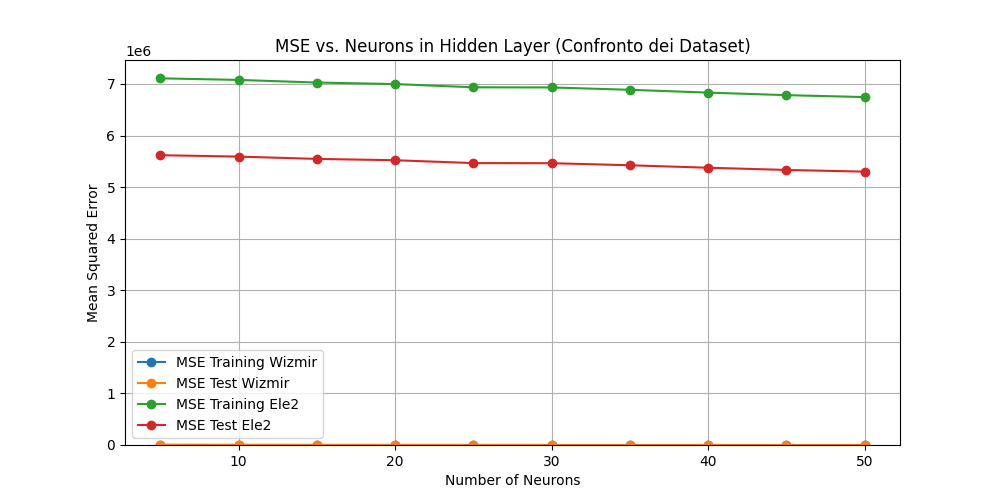
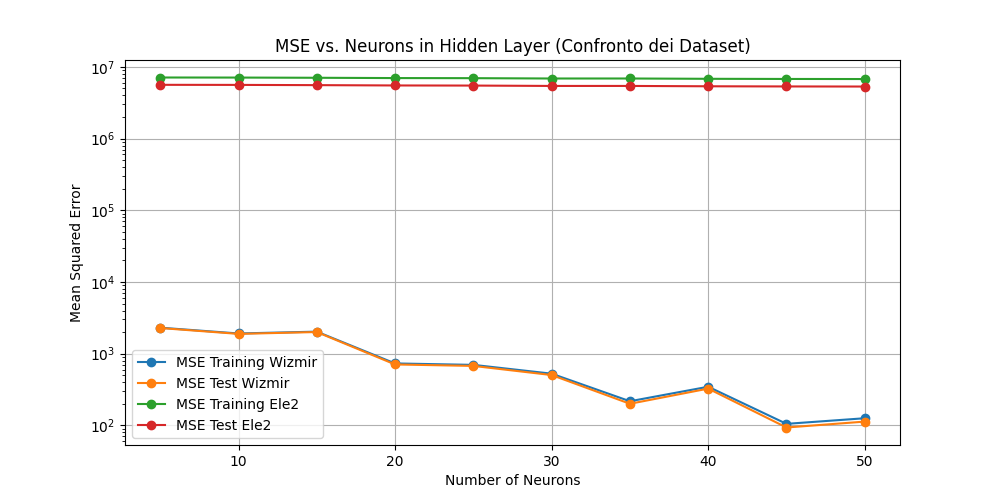
edited README.md and fixed Y axis

diff --git a/main.py b/main.py
@@ -42,10 +42,9 @@ def main():
     plt.title('MSE vs. Neurons in Hidden Layer (Confronto dei Dataset)')
     plt.xlabel('Number of Neurons')
     plt.ylabel('Mean Squared Error')
+    plt.yscale('log')
     plt.legend()
     plt.grid(True)
-
-    plt.ylim(bottom=0)
 
     plots_dir = './plots'
     os.makedirs(plots_dir, exist_ok=True)

diff --git a/README.md b/README.md
@@ -1,38 +1,37 @@
 # Neural Regressor
 
-## Descrizione
-Questo progetto implementa una serie di modelli di rete neurale feedforward per prevedere valori target da dataset di regressione. Attraverso l'uso di TensorFlow e Keras, il progetto esplora l'impatto di diversi numeri di neuroni nello strato nascosto sulla performance del modello, misurata tramite l'errore quadratico medio (MSE).
+## Description
+This project implements a series of feedforward neural network models to predict target values from regression datasets. Using TensorFlow and Keras, the project explores the impact of different numbers of neurons in the hidden layer on the model's performance, measured by the mean squared error (MSE).
 
-## Configurazione
+## Installation
+To set up the environment, follow these steps:
 
-1. Clona il repository del progetto:
+1. Clone the project repository:
+   ```bash
+   git clone https://github.com/simonediaco/neural-regress.git
+   ```
+2. Navigate to the project folder
+   ```bash
+   cd neural-regress
+   ```
+3. Create and activate a virtual environment (optional but recommended):
+   ```bash
+   python -m venv venv
+   source venv/bin/activate
+   ```
+4. Install the required dependencies:
+   ```bash
+   pip install -r requirements.txt
+   ```
+## Usage
+To run the analysis and visualize the results, execute the main script:
+   ```bash
+   python main.py
+   ```
+This script will read the provided datasets, train the neural network models, and generate a plot showing the mean squared error (MSE) as a function of the number of neurons in the hidden layer, comparing both datasets.
 
-    ```git clone URL_DEL_REPOSITORY ```
+## Result
+The resulting plot shows the Mean Squared Error (MSE) as a function of the number of neurons in the hidden layer for both datasets:
 
-2. Crea e attiva un ambiente virtuale (opzionale):
+![MSE vs. Neurons in Hidden Layer (Dataset Comparison)](./plots/mse_plot_comparison.png)
 
-    ``` ```
-
-    ``` ```
-
-3. Installa le dipendenze necessarie:
-
-    ``` ```
-
-    ``` ```
-## Run
-
-
-## Risultati
-
-### Dataset Wizmir
-
-La figura seguente mostra chiaramente come il Mean Squared Error (MSE) varia in funzione del numero di neuroni nello strato nascosto delle reti neurali utilizzate per il dataset Wizmir.
-
-![MSE vs. Neurons in Hidden Layer (Wizmir)](./plots/mse_plot_wizmir.png)
-
-### Dataset Ele2
-
-La figura seguente mostra chiaramente come il Mean Squared Error (MSE) varia in funzione del numero di neuroni nello strato nascosto delle reti neurali utilizzate per il dataset Ele2.
-
-![MSE vs. Neurons in Hidden Layer (Ele2)](./plots/mse_plot_ele2.png)
